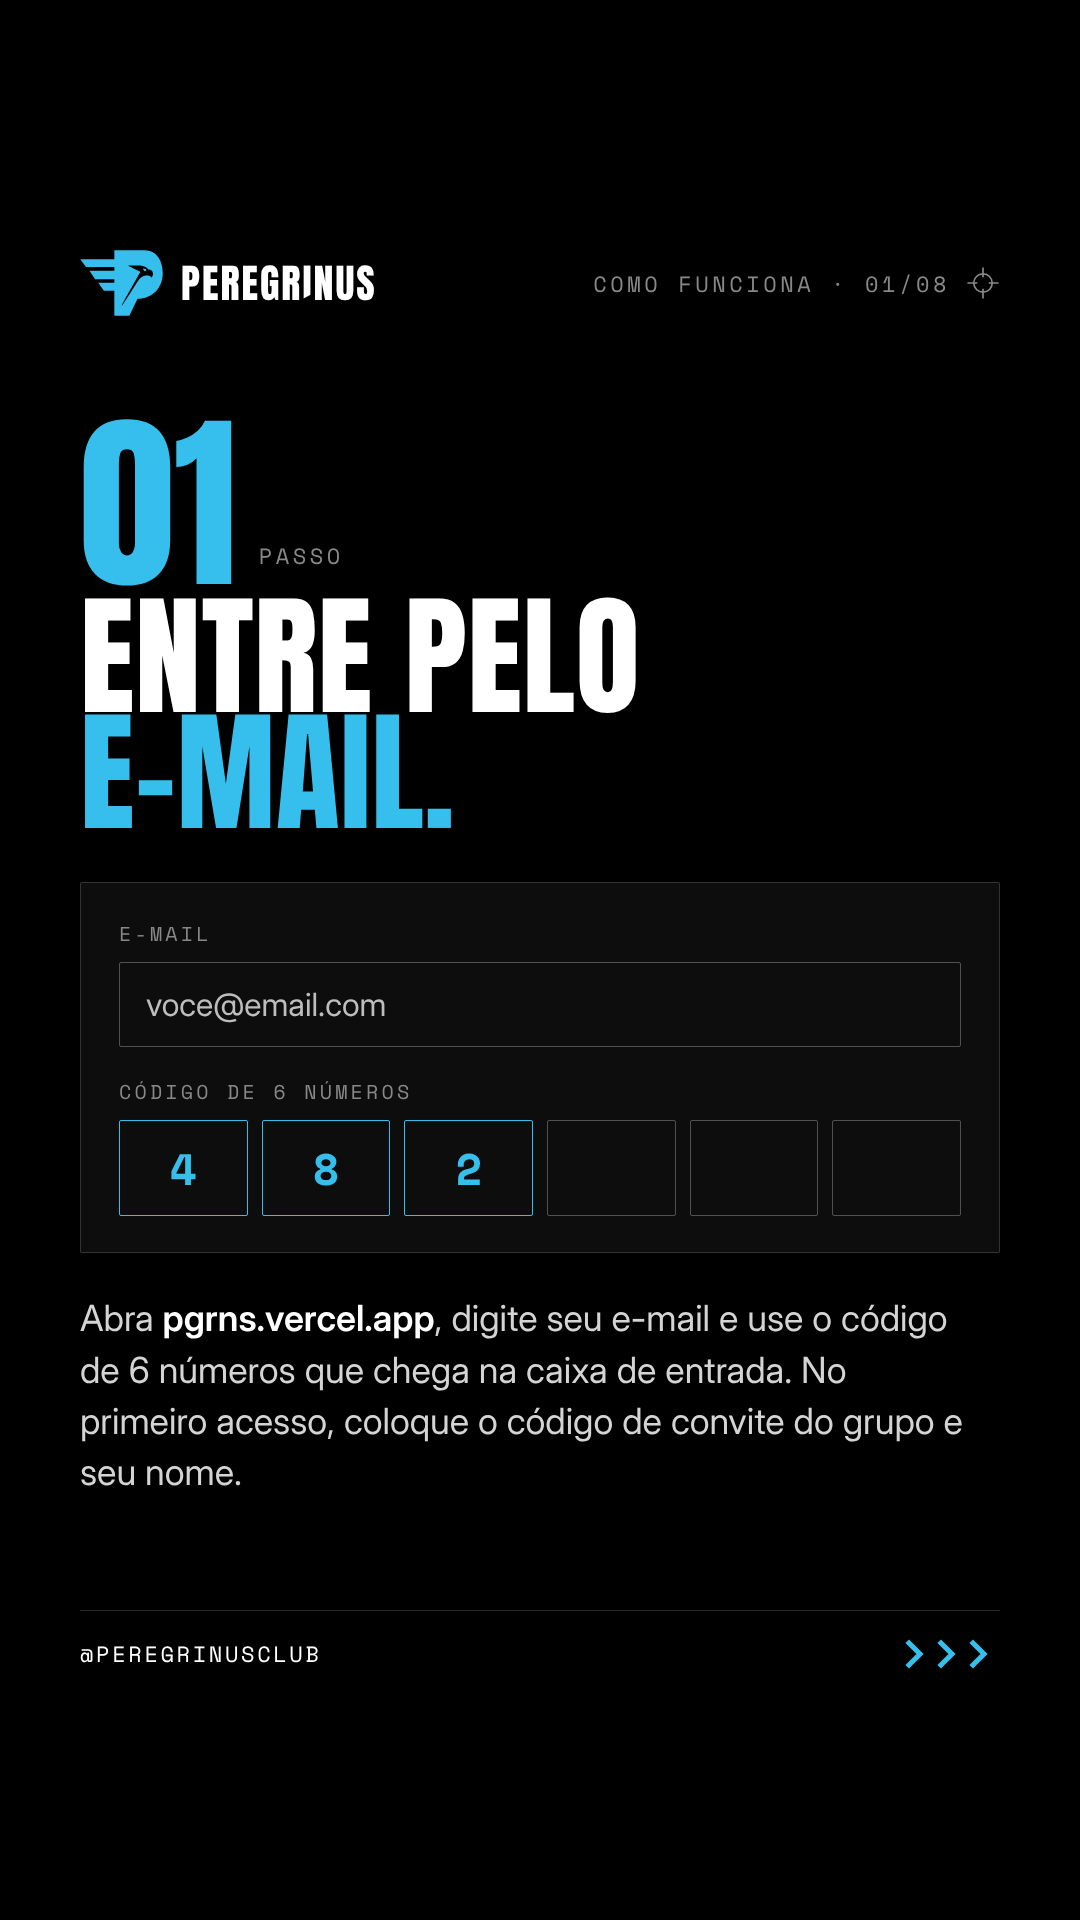
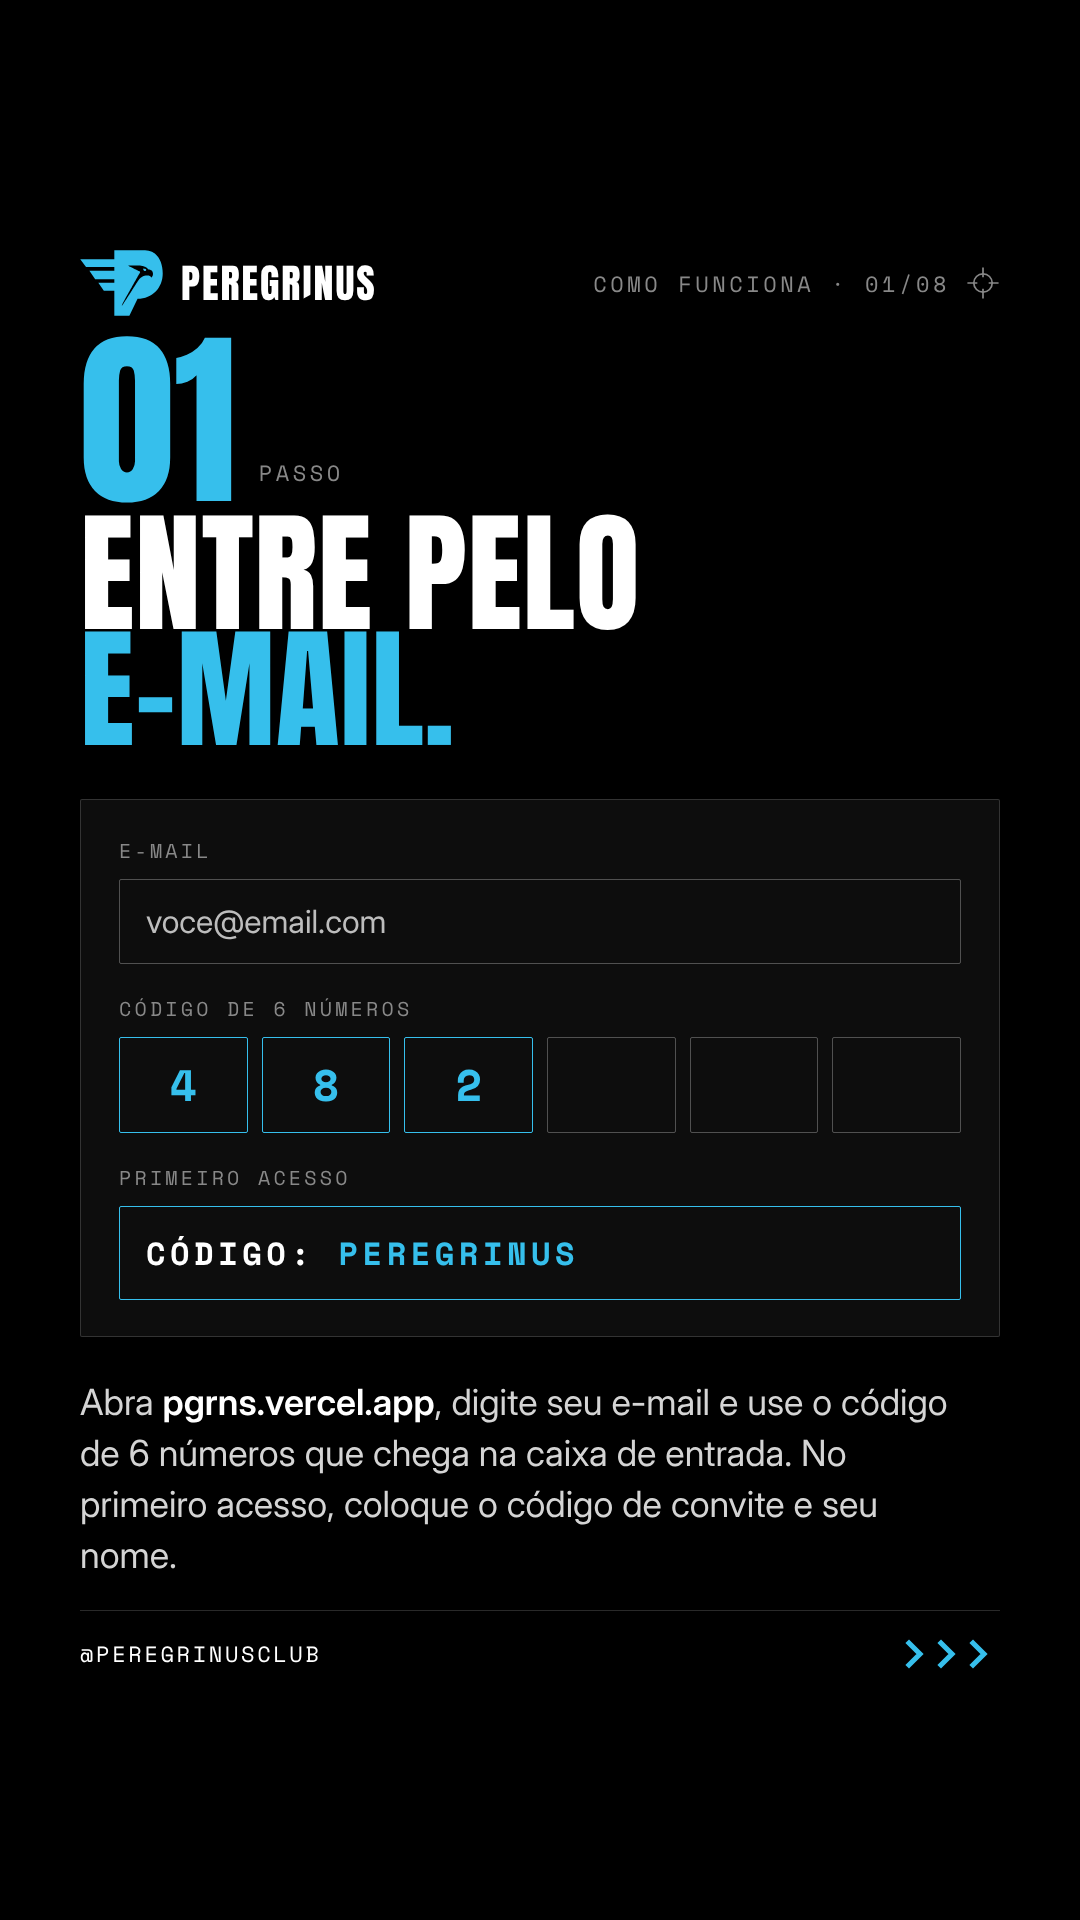
Stories do app: código de convite PEREGRINUS no passo 01
Claude-Session: https://claude.ai/code/session_01LVriSKNRdrLtdVX5x94ct5

Changed region(s): [[0.0611, 0.5312, 0.8861, 0.8125], [0.0611, 0.1562, 0.6111, 0.5312], [0.2139, 0.5625, 0.2444, 0.5938]]

diff --git a/peregrinus/criacoes/stories-como-funciona-app/story-02.html b/peregrinus/criacoes/stories-como-funciona-app/story-02.html
@@ -93,8 +93,10 @@ body.azul .foot svg{color:var(--black)}
   <div class="lab">E-mail</div><div class="field">voce@email.com</div>
   <div class="lab" style="margin-top:30px">Código de 6 números</div>
   <div class="code"><span class="on">4</span><span class="on">8</span><span class="on">2</span><span></span><span></span><span></span></div>
+  <div class="lab" style="margin-top:30px">Primeiro acesso</div>
+  <div class="field" style="border-color:var(--blue);font-family:'Space Mono',monospace;font-weight:700;letter-spacing:.14em;color:var(--white)">CÓDIGO: <span style="color:var(--blue)">PEREGRINUS</span></div>
 </div>
-  <div class="body">Abra <b>pgrns.vercel.app</b>, digite seu e-mail e use o código de 6 números que chega na caixa de entrada. No primeiro acesso, coloque o código de convite do grupo e seu nome.</div>
+  <div class="body">Abra <b>pgrns.vercel.app</b>, digite seu e-mail e use o código de 6 números que chega na caixa de entrada. No primeiro acesso, coloque o código de convite e seu nome.</div>
 </div>
 <div class="foot"><span>@peregrinusclub</span><svg><use href="#chev"/></svg></div></div>
 </body></html>

diff --git a/peregrinus/criacoes/stories-como-funciona-app/gerar.py b/peregrinus/criacoes/stories-como-funciona-app/gerar.py
@@ -154,11 +154,13 @@ STORIES.append(page(f"""<div class="capa">{top("App do club")}</div>
 
 # 02 · entrar
 STORIES.append(passo(1, "Entre pelo <em style=\"white-space:nowrap\">e-mail.</em>",
-    "Abra <b>pgrns.vercel.app</b>, digite seu e-mail e use o código de 6 números que chega na caixa de entrada. No primeiro acesso, coloque o código de convite do grupo e seu nome.",
+    "Abra <b>pgrns.vercel.app</b>, digite seu e-mail e use o código de 6 números que chega na caixa de entrada. No primeiro acesso, coloque o código de convite e seu nome.",
     """<div class="ui">
   <div class="lab">E-mail</div><div class="field">voce@email.com</div>
   <div class="lab" style="margin-top:30px">Código de 6 números</div>
   <div class="code"><span class="on">4</span><span class="on">8</span><span class="on">2</span><span></span><span></span><span></span></div>
+  <div class="lab" style="margin-top:30px">Primeiro acesso</div>
+  <div class="field" style="border-color:var(--blue);font-family:'Space Mono',monospace;font-weight:700;letter-spacing:.14em;color:var(--white)">CÓDIGO: <span style="color:var(--blue)">PEREGRINUS</span></div>
 </div>"""))
 
 # 03 · instalar
